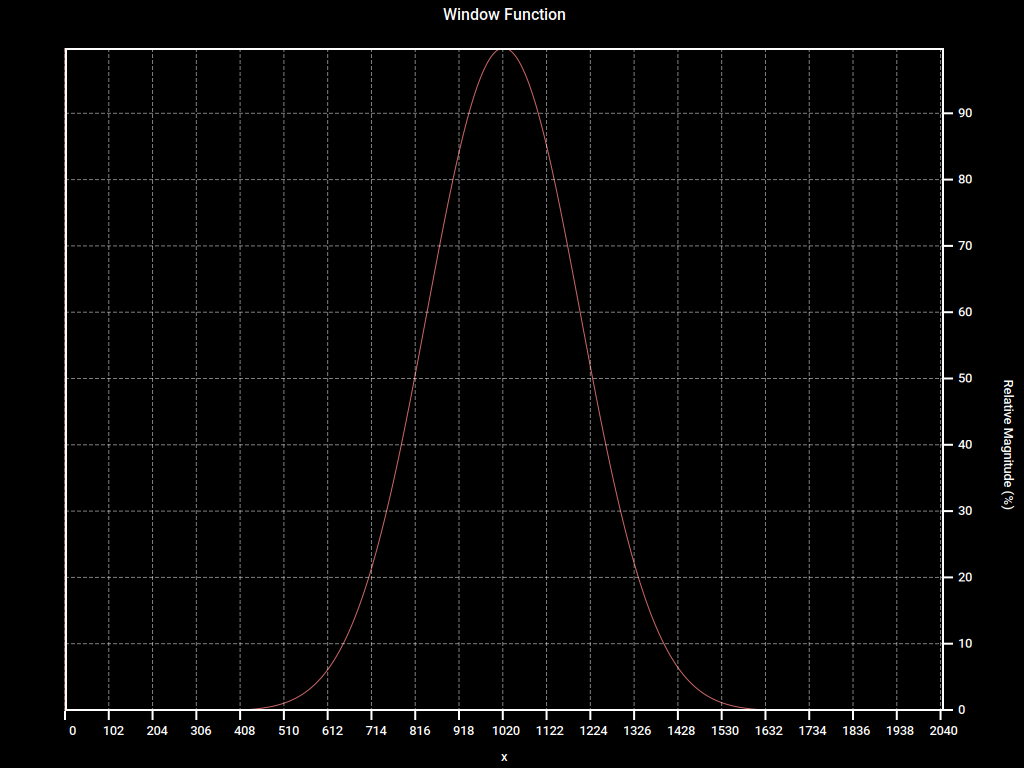
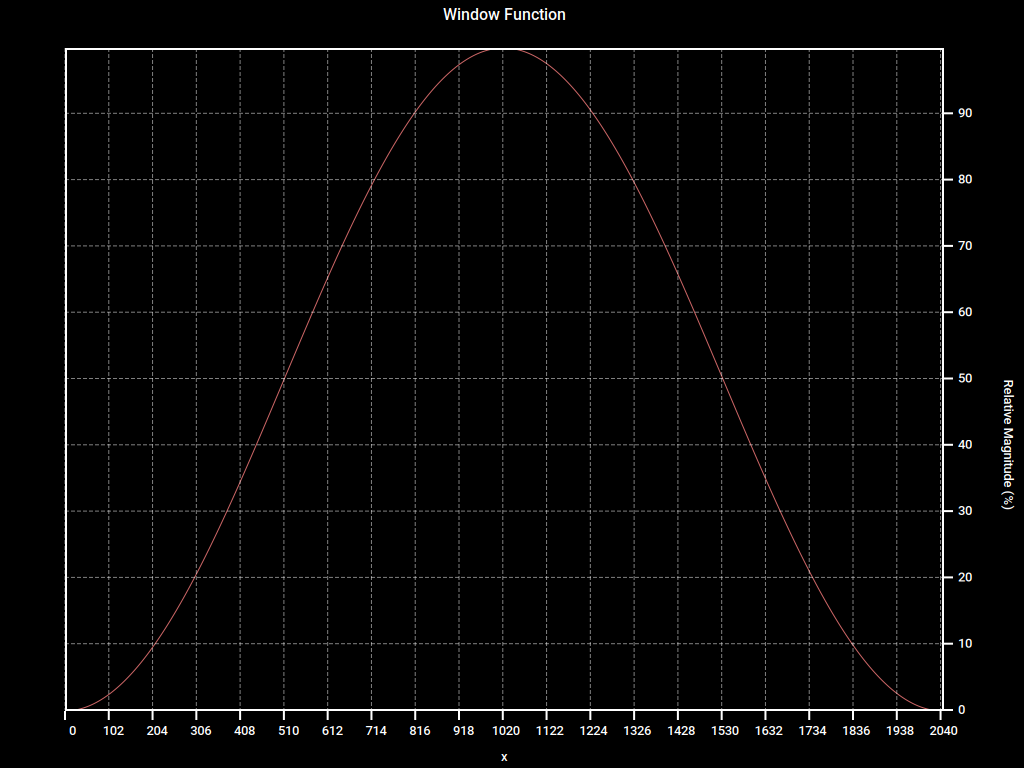
updates to plotting of window functions (freq domain not working yet)

Changed region(s): [[0.5, 0.0625, 0.5312, 0.0938]]

diff --git a/renderer.cpp b/renderer.cpp
@@ -185,12 +185,27 @@ void Renderer::renderWindowFunction(const Parameters& parameters, const std::vec
 {
 	// positioning and scaling constants
 	constexpr double hTrim = -0.5; // horizontal centering tweak to position plot nicely on top of gridlines
-	const double plotOriginX_ = plotOriginX + hTrim;
 	const double hScaling = static_cast<double>(plotWidth) / data.size();
-	const double vScaling = static_cast<double>(plotHeight);// / parameters.getDynRange();
+
+	// time domain: left-to-right
+	// freq-domain: start at centre (f=0)
+	const double plotOriginX_ = parameters.getPlotTimeDomain() ?
+				plotOriginX + hTrim
+			  :	plotOriginX + hTrim + plotWidth / 2.0;
+
+	// time domain: range is expected to be from 0..1
+	// freq domain: range is expected from 0dB .. -dB
+
+	const double plotOriginY_ = parameters.getPlotTimeDomain() ?
+				plotOriginY + plotHeight
+			  : plotOriginY;
+
+	const double vScaling =
+			parameters.getPlotTimeDomain() ? - static_cast<double>(plotHeight)
+											 : static_cast<double>(plotHeight) / parameters.getDynRange();
 
 	// clip the plotting region
-	cairo_rectangle(cr, plotOriginX_, plotOriginY, plotWidth, plotHeight);
+	cairo_rectangle(cr, plotOriginX, plotOriginY, plotWidth, plotHeight);
 	cairo_clip(cr);
 	const double opacity = 0.8;
 
@@ -201,11 +216,26 @@ void Renderer::renderWindowFunction(const Parameters& parameters, const std::vec
 
 	for (int i = 0; i < data.size(); i++) {
 		const double mag = data.at(i);
-		const double y = plotOriginY + plotHeight - vScaling * mag;
+		const double y = plotOriginY_ + vScaling * mag;
 		cairo_line_to(cr, plotOriginX_ + hScaling * i, y);
 	}
 
 	cairo_stroke(cr);
+
+	if (!parameters.getPlotTimeDomain()) {
+		// draw negative half of spectrum
+
+		cairo_move_to(cr, plotOriginX_, plotOriginY - vScaling * data.at(0));
+
+		for (int i = 0; i < data.size(); i++) {
+			const double mag = data.at(i);
+			const double y = plotOriginY_ + vScaling * mag;
+			cairo_line_to(cr, plotOriginX_ - hScaling * i, y);
+		}
+
+		cairo_stroke(cr);
+	}
+
 	cairo_reset_clip(cr);
 
 	drawBorder();

diff --git a/spectrum.cpp b/spectrum.cpp
@@ -166,6 +166,39 @@ bool Spectrum::convertToDb(std::vector<std::vector<double>> &s, bool fromMagSqua
 	return hasSignal;
 }
 
+bool Spectrum::convertToDb(std::vector<double> &s, bool fromMagSquared)
+{
+	int numChannels = s.size();
+	bool hasSignal{false};
+	int numBins = s.size();
+
+	// find peak
+	double peak{0.0};
+	for (int b = 0; b < numBins; b++) {
+		peak = std::max(peak, s[b]);
+	}
+
+	if (std::fpclassify(peak) != FP_ZERO) { // scale the data
+
+		hasSignal = true;
+		double dBMult = fromMagSquared ? 10.0 : 20.0;
+
+		// set a floor to avoid log(0) problems
+		double floor = std::max(std::numeric_limits<double>::min(), peak * pow(10.0, -300.0 / dBMult)); // 300dB below peak or smallest normal number
+
+		// function to convert to dB
+		auto scaleFunc = [scale = 1.0 / peak, dBMult, floor] (double v) -> double {
+			return dBMult * std::log10(std::max(scale * v, floor));
+		};
+
+		std::transform (s.begin(), s.end(), s.begin(), scaleFunc);
+
+	}
+
+	return hasSignal;
+}
+
+
 bool Spectrum::convertToLinear(std::vector<std::vector<double>> &s, bool fromMagSquared)
 {
 	int numChannels = s.size();

diff --git a/main.cpp b/main.cpp
@@ -18,6 +18,7 @@
 #include <cstring>
 #include <iostream>
 #include <cmath>
+#include <algorithm>
 
 int main(int argc, char** argv)
 {
@@ -57,6 +58,9 @@ int main(int argc, char** argv)
 		} else {
 			Sndspec::Spectrum s(size);
 			std::memcpy(s.getTdBuf(), window.getData().data(), size * sizeof(double));
+
+			size_t fftSize = s.getFFTSize();
+			std::cout << "fft size=" << fftSize << std::endl;
 			s.exec();
 
 			Sndspec::Renderer r{w, h};
@@ -75,7 +79,11 @@ int main(int argc, char** argv)
 
 			// todo: send spectrum data from s.fDbuf;
 
-			r.renderWindowFunction(parameters, window.getData());
+
+			std::vector<double> v(fftSize, 0.0);
+			s.getMagSquared(v);
+			s.convertToDb(v, false);
+			r.renderWindowFunction(parameters, v);
 			r.writeToFile("windowfunction.png");
 
 		}

diff --git a/spectrum.h b/spectrum.h
@@ -44,6 +44,7 @@ public:
 	static int selectBestFFTSizeFromSpectrumSize(int spectrum_size);
 	static int selectBestFFTSize(int requested_size); // pick a good FFT size for FFTW (of the form 2^a * 3^b * 5^c * 7^d * [1|11|13] )
 	static bool convertToDb(std::vector<std::vector<double>> &s, bool fromMagSquared);
+	static bool convertToDb(std::vector<double> &s, bool fromMagSquared);
 	static bool convertToLinear(std::vector<std::vector<double>> &s, bool fromMagSquared);
 
 	// getRankedLocalMaxima() : finds all local peaks in input data. Returns a map of <peak, index>,
